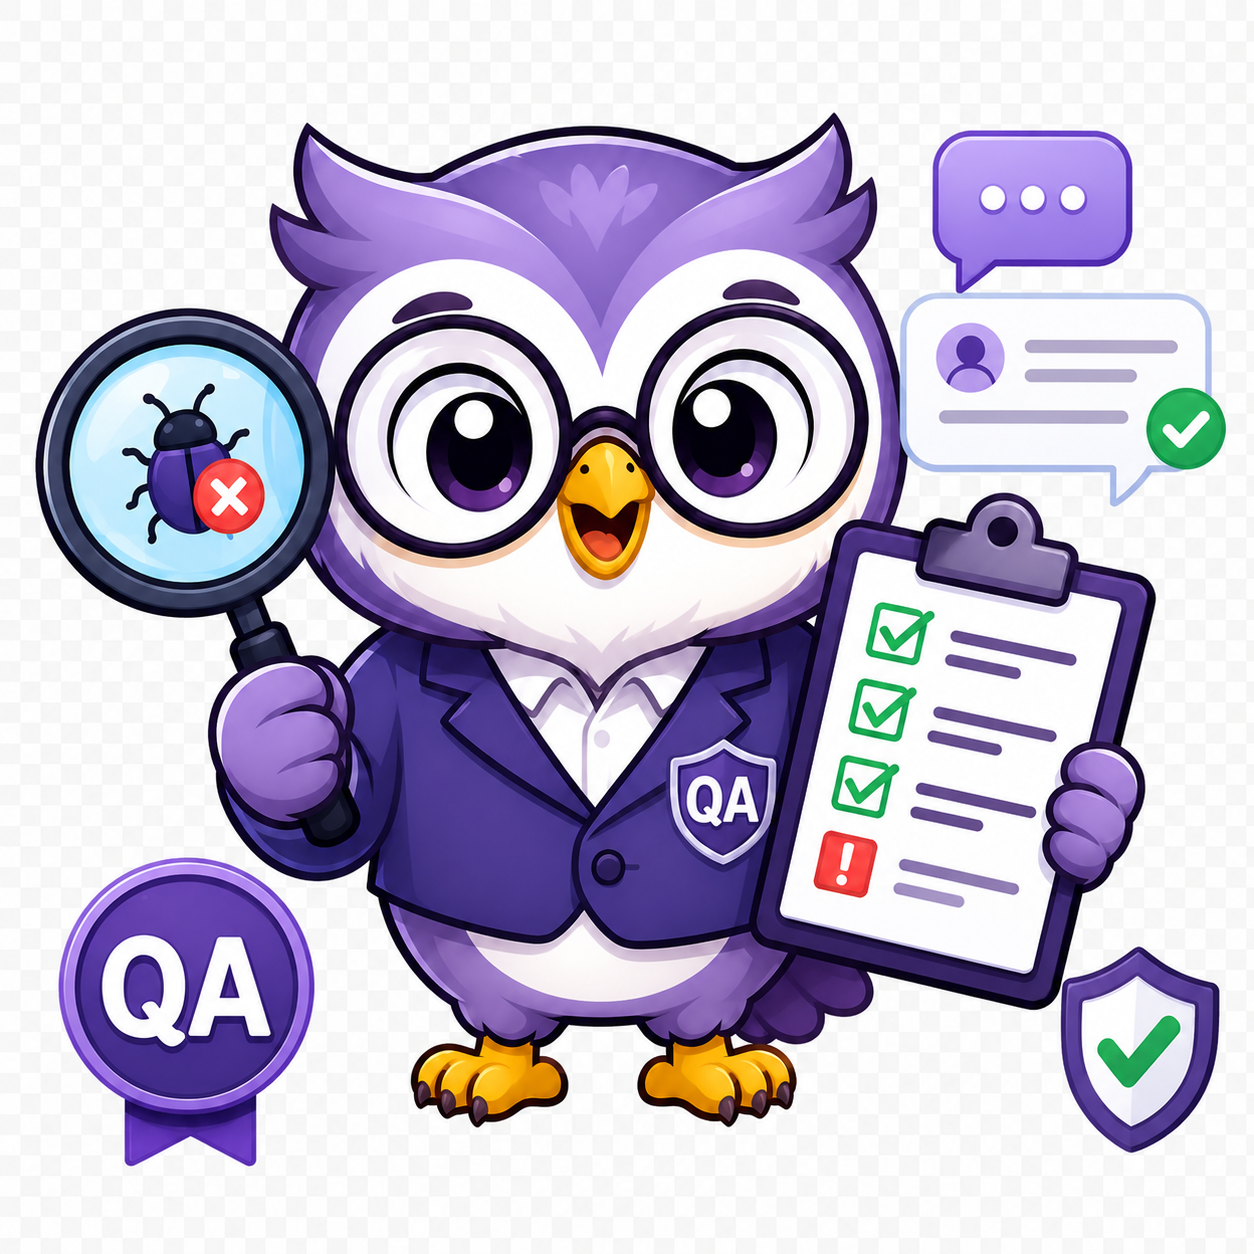
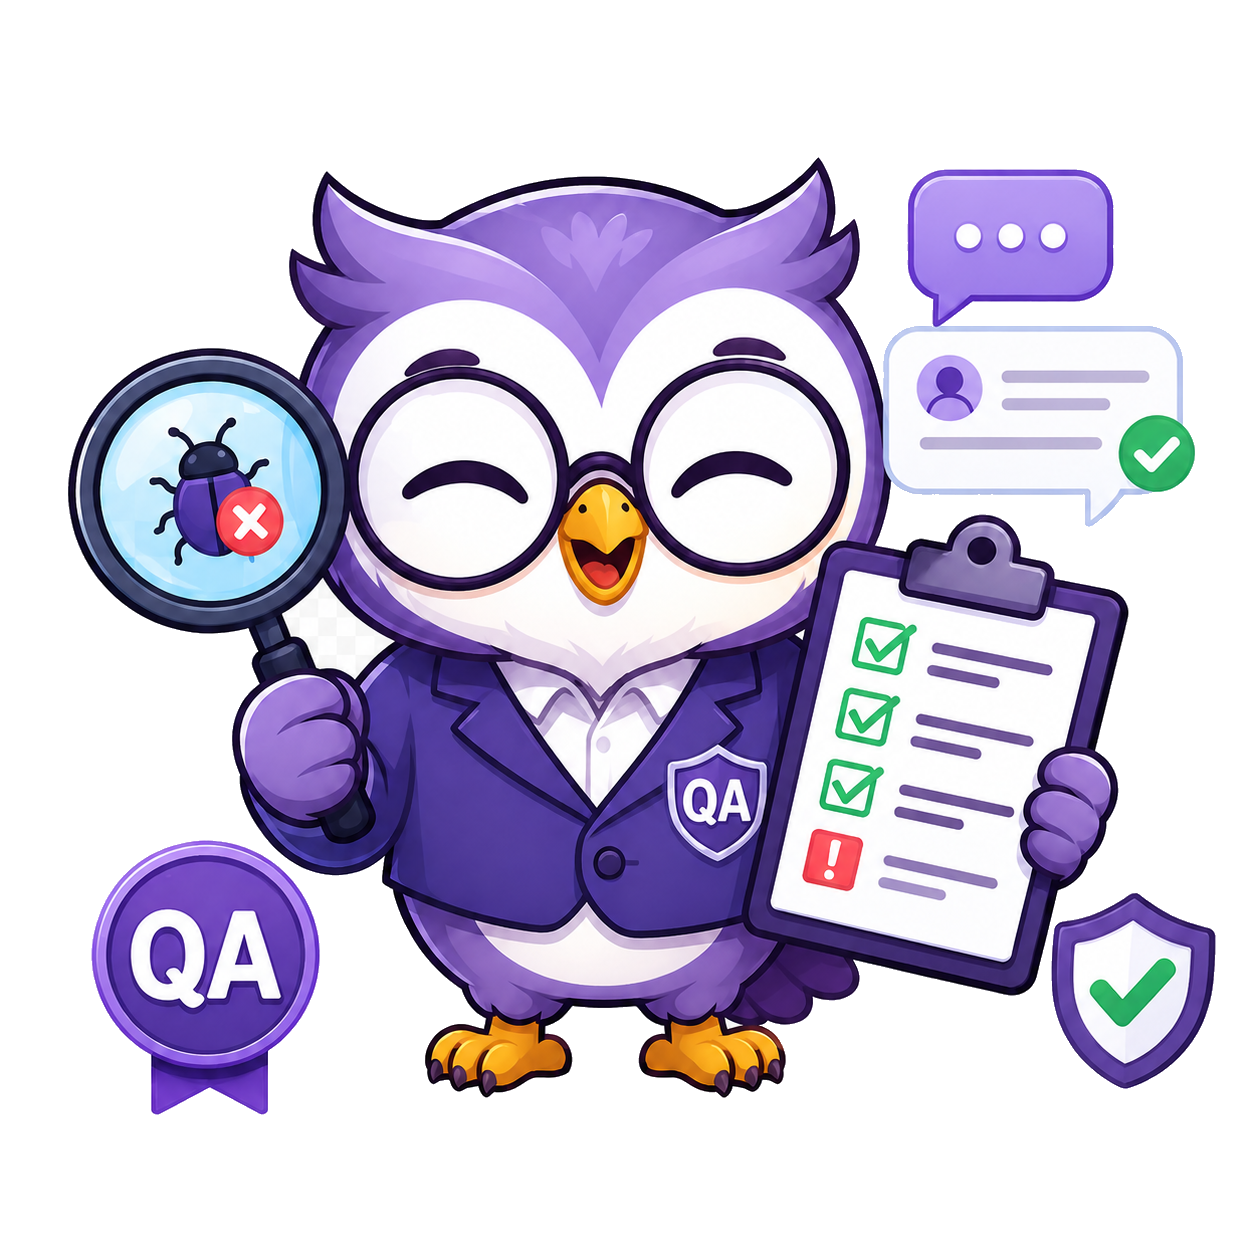
fix: use transparent blinking loading owl

diff --git a/src/LoadingMascot.tsx b/src/LoadingMascot.tsx
@@ -23,9 +23,13 @@ export default function LoadingMascot({
           }
 
           @keyframes qaOwlBlink {
-            0%, 88%, 100% {
+            0%, 72%, 100% {
               opacity: 0;
             }
+            78%, 90% {
+              opacity: 1;
+            }
+          }
             91%, 95% {
               opacity: 1;
             }
@@ -58,7 +62,7 @@ export default function LoadingMascot({
           }
 
           .qa-owl-blink {
-            animation: qaOwlBlink 3.2s ease-in-out infinite;
+            animation: qaOwlBlink 2.4s ease-in-out infinite;
           }
 
           .qa-loading-dot {
@@ -112,3 +116,4 @@ export default function LoadingMascot({
     </div>
   );
 }
+